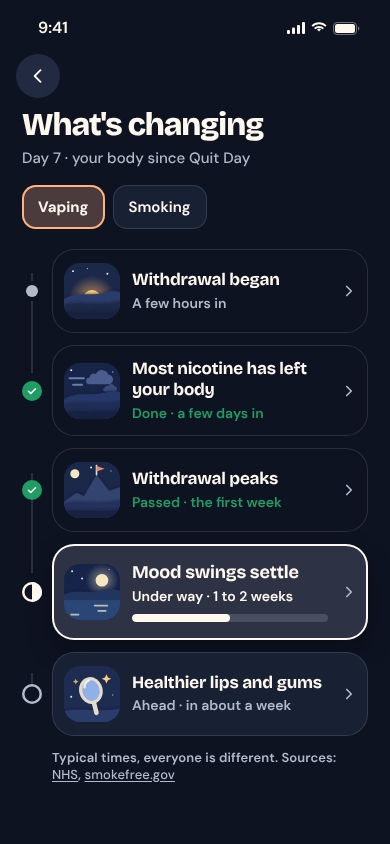
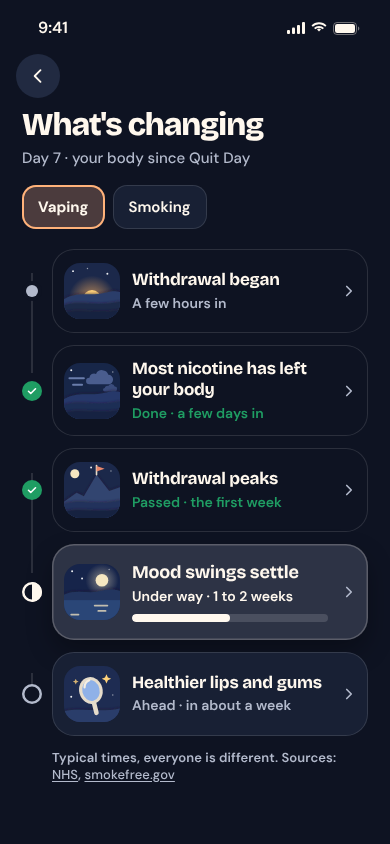
Cook: round 7 calm and settings (careful, on the r5 base)
Claude-Session: https://claude.ai/code/session_01DZ7ApmrncqosUtJWfkxY6v

diff --git a/cook/site/screens/037-health.html b/cook/site/screens/037-health.html
@@ -32,8 +32,8 @@
   .chev svg { width: 18px; height: 18px; }
   .item.past { background: transparent; }
   /* the under-way card leads: a soft warm tint and a little more height; its spot and text stay on the same column as the rest */
-  .item.now { padding: 18px 10px 18px 12px; background: color-mix(in srgb, #FF9A5C 16%, #FFFFFF); box-shadow: inset 0 0 0 2px var(--fg), 0 12px 26px rgba(30,26,58,.1); }
-  [data-theme="dark"] .item.now { background: color-mix(in srgb, #FFF8EE 9%, var(--card)); box-shadow: inset 0 0 0 2px var(--fg), 0 12px 26px rgba(0,0,0,.3); }
+  .screen .tl .item.now { padding: 18px 10px 18px 12px; background: color-mix(in srgb, #FF9A5C 16%, #FFFFFF); box-shadow: inset 0 0 0 1.5px rgba(232,120,70,.45), 0 12px 26px rgba(30,26,58,.1); }
+  [data-theme="dark"] .screen .tl .item.now { background: color-mix(in srgb, #FFF8EE 9%, var(--card)); box-shadow: inset 0 0 0 1.5px rgba(255,248,238,.22), 0 12px 26px rgba(0,0,0,.3); }
   .item.now .t-head { font-size: 18px; }
   .item.now .st { color: var(--fg); }
   .item.now .progress { height: 8px; margin-top: 4px; border-radius: 99px; }
